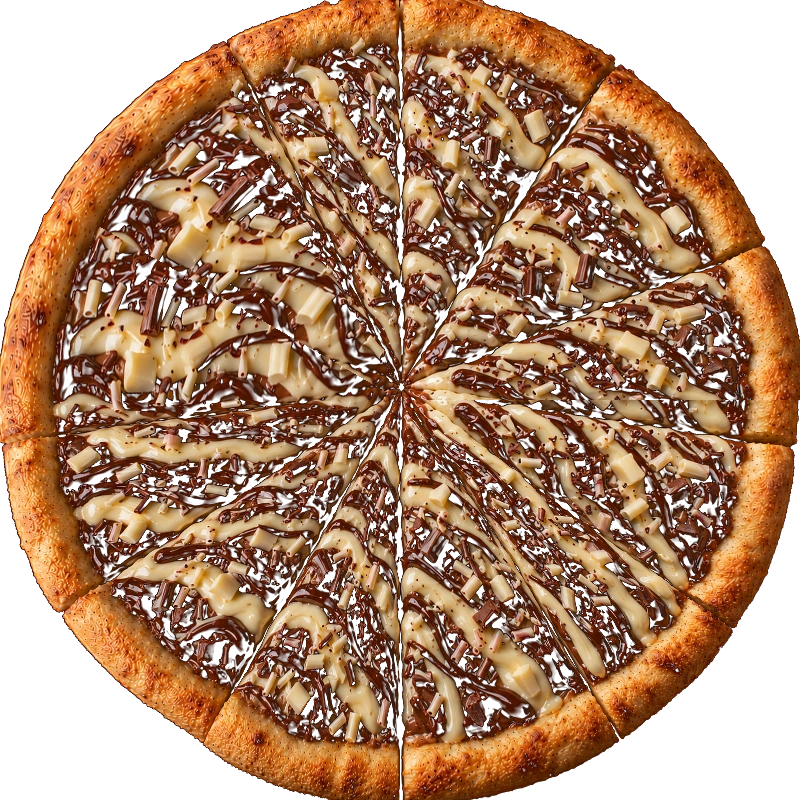
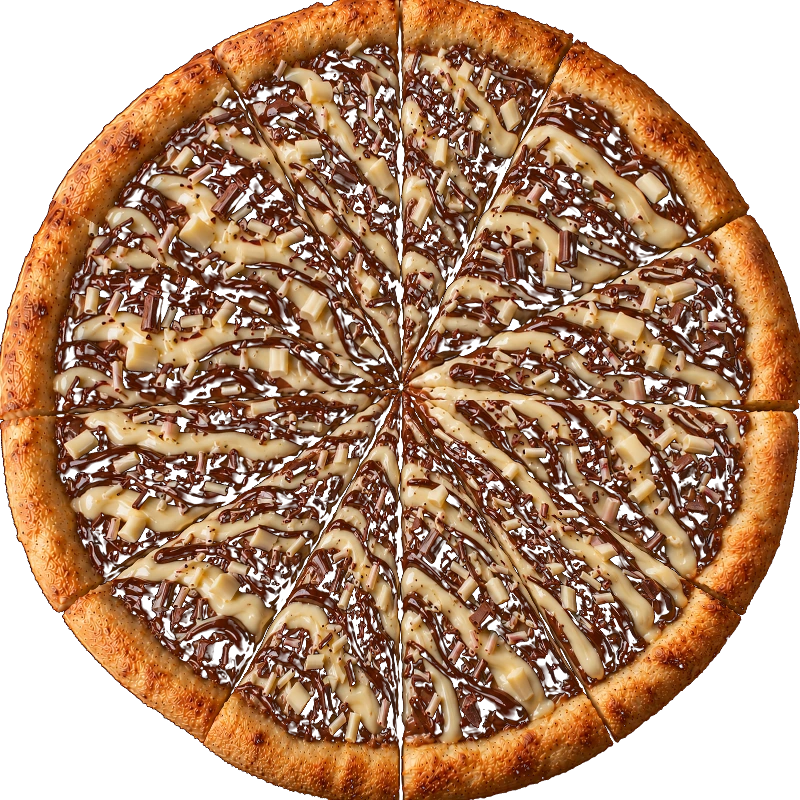
Pizzas com sabor usam os cortes reais da foto em 8/10/12; corte da massa mais suave
Claude-Session: https://claude.ai/code/session_011LuRHEVc34R5xPAEgWmKaq

diff --git a/index.html b/index.html
@@ -779,7 +779,7 @@ function setor(r,a0,a1){const g=a1-a0>Math.PI?1:0;return`M0 0L${f2(r*Math.cos(a0
 function arco(r,a0,a1){return`M${f2(r*Math.cos(a0))} ${f2(r*Math.sin(a0))}A${r} ${r} 0 0 1 ${f2(r*Math.cos(a1))} ${f2(r*Math.sin(a1))}`}
 function grupos(n,k){const g=[];let i=0;const b=Math.floor(n/k),x=n%k;for(let j=0;j<k;j++){const t=b+(j<x?1:0);g.push({ini:i,fim:i+t});i+=t}return g}
 /* depois de cortada, cada fatia se afasta um pouquinho do centro (fresta fina, como pizza cortada de verdade) */
-function offsets(cfg){const st=TAU/cfg.n;return Array.from({length:cfg.n},(_,i)=>{if(!cfg.cortada)return[0,0];const m=-Math.PI/2+(i+.5)*st;return[1.9*Math.cos(m),1.9*Math.sin(m)]})}
+function offsets(cfg){const st=TAU/cfg.n;return Array.from({length:cfg.n},(_,i)=>{if(!cfg.cortada)return[0,0];const m=-Math.PI/2+(i+.5)*st;return[.9*Math.cos(m),.9*Math.sin(m)]})}
 const EXTRAS_IMG=['queijo','bacon','azeitona']; // ketchup e maionese vão em sachê
 let UID=0;
 /* corte de faca: sulco escuro fino + brilho do lado oposto, como pizza cortada de verdade */
@@ -801,8 +801,8 @@ function svgPizza(cfg,{cortes=false,off=offsets(cfg)}={}){
   let h=`<svg xmlns="http://www.w3.org/2000/svg" viewBox="-112 -112 224 224"><defs>
     <filter id="${id}f" x="-10%" y="-10%" width="120%" height="120%"><feDropShadow dx=".35" dy=".6" stdDeviation=".7" flood-color="#1a0a02" flood-opacity=".38"/></filter>
     <linearGradient id="${id}g" gradientUnits="objectBoundingBox" x1="0" y1="0" x2="1" y2="0">
-      <stop offset="0" stop-color="#5a3010" stop-opacity=".5"/><stop offset=".22" stop-color="#7a4818" stop-opacity=".22"/>
-      <stop offset=".34" stop-color="#fff6e2" stop-opacity=".38"/><stop offset=".6" stop-color="#fff6e2" stop-opacity="0"/>
+      <stop offset="0" stop-color="#5a3010" stop-opacity=".28"/><stop offset=".22" stop-color="#7a4818" stop-opacity=".1"/>
+      <stop offset=".34" stop-color="#fff6e2" stop-opacity=".25"/><stop offset=".6" stop-color="#fff6e2" stop-opacity="0"/>
     </linearGradient></defs>`;
   /* faixa de bisel ao longo de uma borda (reta pelo centro, ângulo a), entrando na fatia pelo lado 'lado' */
   const bisel=(a,lado)=>{const w=3.4;return `<rect x="0" y="${lado>0?0:-w}" width="103" height="${w}" fill="url(#${id}g${lado>0?'p':'n'})" transform="rotate(${f2(a*DEG)})"/>`};
@@ -811,9 +811,10 @@ function svgPizza(cfg,{cortes=false,off=offsets(cfg)}={}){
   for(let i=0;i<(inteira?1:n);i++){
     const a0=-Math.PI/2+i*st,a1=a0+st,o=off[i]||[0,0];
     const gi=gs.findIndex(g=>i>=g.ini&&i<g.fim),s=gi>=0?SAB[cfg.sabores[gi]]:null;
-    let c=s?IMG(`img/sabores/${s.id}.webp`)+(s.tier!=='doce'?ex.map(e=>IMG(`img/sabores/extra-${e}.webp`)).join(''):''):IMG('img/massa.webp');
+    let c=s?IMG(`img/sabores/${s.id}${inteira?'':'-'+n}.webp`)+(s.tier!=='doce'?ex.map(e=>IMG(`img/sabores/extra-${e}.webp`)).join(''):''):IMG('img/massa.webp');
     if(cfg.borda)c+=IMG(`img/borda-${cfg.borda}.webp`);
     if(inteira){h+=c;break}
+    if(s){h+=`<clipPath id="${id}c${i}"><path d="${setor(103,a0,a1)}"/></clipPath><g data-i="${i}" clip-path="url(#${id}c${i})">${c}</g>`;continue}
     h+=`<clipPath id="${id}c${i}"><path d="${setor(103,a0,a1)}"/></clipPath><mask id="${id}m${i}" maskUnits="userSpaceOnUse" x="-110" y="-110" width="220" height="220"><g clip-path="url(#${id}c${i})">${IMG(s?`img/sabores/${s.id}.webp`:'img/massa.webp').replace('<image','<image style="filter:brightness(0) invert(1)"')}</g></mask><g data-i="${i}" style="transform:translate(${f2(o[0])}px,${f2(o[1])}px)" filter="url(#${id}f)"><g clip-path="url(#${id}c${i})">${c}<g mask="url(#${id}m${i})">${bisel(a0,1)}${bisel(a1,-1)}</g></g></g>`;
   }
   if(cortes)h+=faca(n,true);
